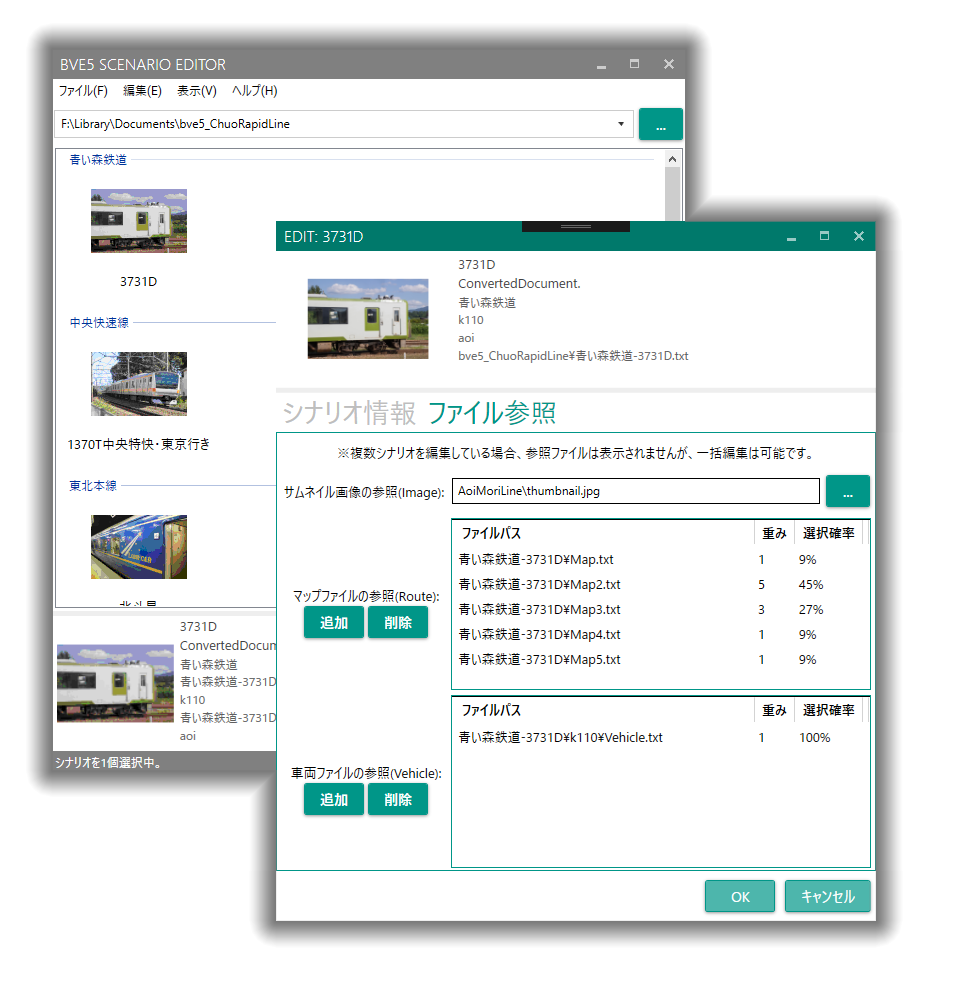
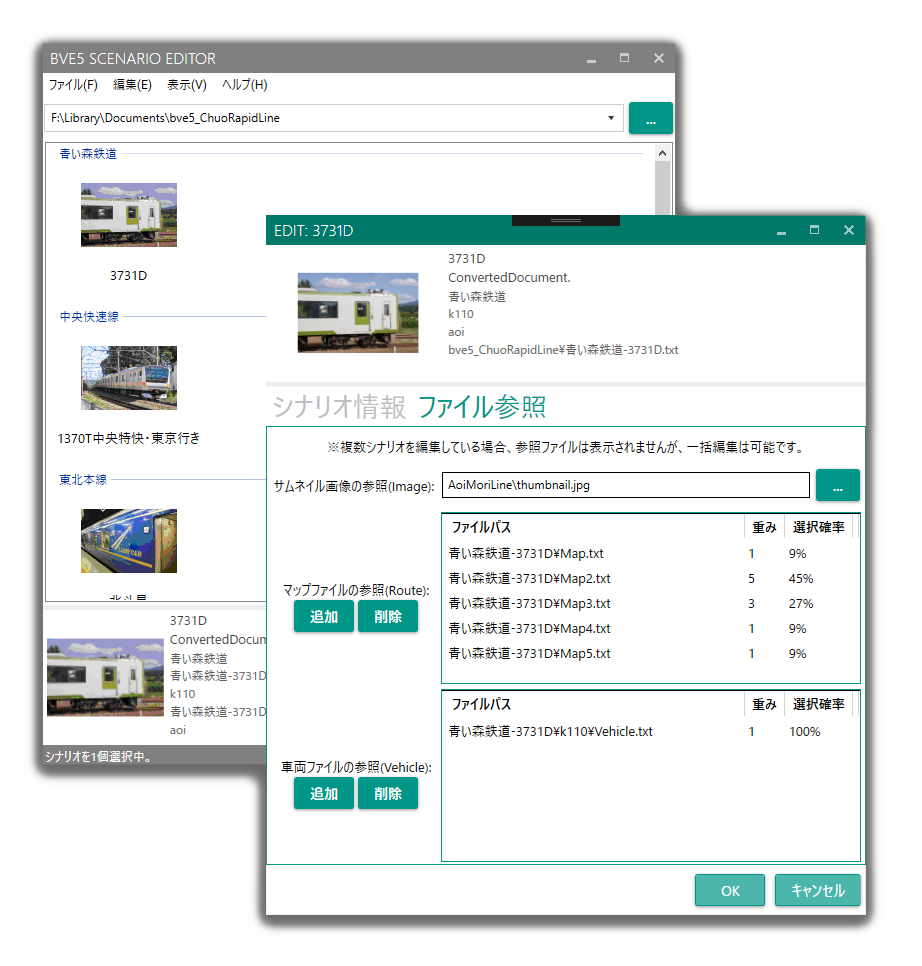
[update] ライセンスとReadme.mdの画像を更新

Changed region(s): [[0.0304, 0.0311, 0.9718, 0.9627], [0.2733, 0.2174, 0.3948, 0.2484]]

diff --git a/License.md b/License.md
@@ -1,0 +1,7 @@
+Copyright (c) 2018 aoisupersix
+
+Permission is hereby granted, free of charge, to any person obtaining a copy of this software and associated documentation files (the "Software"), to deal in the Software without restriction, including without limitation the rights to use, copy, modify, merge, publish, distribute, sublicense, and/or sell copies of the Software, and to permit persons to whom the Software is furnished to do so, subject to the following conditions:
+
+The above copyright notice and this permission notice shall be included in all copies or substantial portions of the Software.
+
+THE SOFTWARE IS PROVIDED "AS IS", WITHOUT WARRANTY OF ANY KIND, EXPRESS OR IMPLIED, INCLUDING BUT NOT LIMITED TO THE WARRANTIES OF MERCHANTABILITY, FITNESS FOR A PARTICULAR PURPOSE AND NONINFRINGEMENT. IN NO EVENT SHALL THE AUTHORS OR COPYRIGHT HOLDERS BE LIABLE FOR ANY CLAIM, DAMAGES OR OTHER LIABILITY, WHETHER IN AN ACTION OF CONTRACT, TORT OR OTHERWISE, ARISING FROM, OUT OF OR IN CONNECTION WITH THE SOFTWARE OR THE USE OR OTHER DEALINGS IN THE SOFTWARE.
